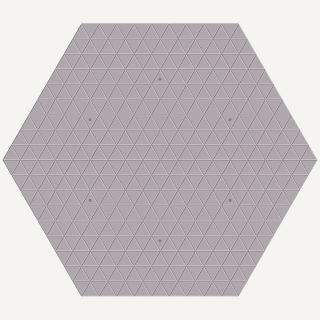
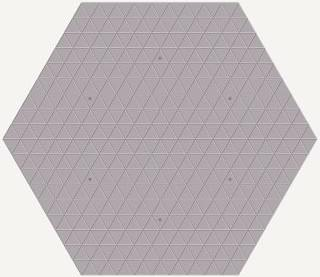
Specified image sized in HTML documents to speed up rendering on Android. Cropped empty space from Trigon images. Fixed HTMl title in some German pages.

diff --git a/src/pentobi/help/de/pentobi/callisto_rules.html b/src/pentobi/help/de/pentobi/callisto_rules.html
@@ -1,7 +1,7 @@
 <!DOCTYPE HTML PUBLIC "-//W3C//DTD HTML 4.01 Transitional//EN">
 <html lang="de">
 <head>
-<title>Pentobi Help</title>
+<title>Pentobi-Hilfe</title>
 <link rel="stylesheet" type="text/css" href="../../C/pentobi/stylesheet.css">
 <meta http-equiv="Content-Type" content="text/html; charset=utf-8">
 </head>
@@ -15,23 +15,23 @@ werden, sodass ein Achteck verbleibt mit einer oberen Kantenlänge von sechs.
 Die Spielsteine sind eine Untermenge der Polyominos bis zur Größe fünf. Sie
 beinhalten drei 1×1-Spielsteine pro Spieler, die eine besondere Rolle
 spielen.</p>
-<p align="center"><img src="../../C/pentobi/pieces_callisto.png" alt=
-"Spielsteine für Spielvariante Callisto"></p>
+<p align="center"><img src="../../C/pentobi/pieces_callisto.png" width="296"
+height="126" alt="Spielsteine für Spielvariante Callisto"></p>
 <div align="center" class="caption">Die 21 Spielsteine.</div>
 <p>Die 1×1-Spielsteine dürfen überall auf dem Spielbrett gesetzt werden außer
 im Zentrum des Spielbretts. Das Zentrums besteht aus einem Achteck mit Breite
 sechs und oberer Kantenlänge zwei. Die ersten zwei Züge eines Spielers müssen
 einen 1×1-Spielstein benutzen, der dritte 1×1-Spielstein kann jederzeit später
 gespielt werden.</p>
-<p align="center"><img src="../../C/pentobi/board_callisto.png" alt=
-"Spielbrett für Spielvariante Callisto"></p>
+<p align="center"><img src="../../C/pentobi/board_callisto.png" width="320"
+height="320" alt="Spielbrett für Spielvariante Callisto"></p>
 <div align="center" class="caption">Das Brett mit einer dunkleren Farbe im
 Zentrum.</div>
 <p>Alle größeren Spielsteine dürfen überall auf dem Brett gesetzt werden,
 müssen aber einen existierenden Spielstein der selben Farbe Kante an Kante
 berühren.</p>
-<p align="center"><img src="../../C/pentobi/position_callisto.png" alt=
-"Beispielstellung für Spielvariante Callisto"></p>
+<p align="center"><img src="../../C/pentobi/position_callisto.png" width="321"
+height="320" alt="Beispielstellung für Spielvariante Callisto"></p>
 <div align="center" class="caption">Eine Beispielstellung nach ein paar
 Zügen.</div>
 <p>Die Punktzahl einer Farbe ist die Anzahl der Quadrate auf dem Brett, die von

diff --git a/src/pentobi/help/de/pentobi/classic_rules.html b/src/pentobi/help/de/pentobi/classic_rules.html
@@ -14,8 +14,8 @@ Quadraten besteht.</p>
 <p>Jeder Spieler besitzt 21 Spielsteine seiner Farbe, die die Form von
 Polyominos bis zur Größe fünf haben (ein Polyomino ist eine Figur, die aus
 einer Anzahl von Quadraten besteht, die entlang der Kanten verbunden sind).</p>
-<p align="center"><img src="../../C/pentobi/pieces.png" alt=
-"Spielsteine für Spielvariante Klassisch"></p>
+<p align="center"><img src="../../C/pentobi/pieces.png" width="294" height=
+"122" alt="Spielsteine für Spielvariante Klassisch"></p>
 <div align="center" class="caption">Die 21 Spielsteine.</div>
 <p>Die Spieler setzen abwechselnd einen ihrer Spielsteine aufs Brett. Blau
 fängt an, gefolgt von Gelb, dann Rot, dann Grün.</p>
@@ -23,16 +23,16 @@ fängt an, gefolgt von Gelb, dann Rot, dann Grün.</p>
 linken Ecke, das von Gelb in der oberen rechten Ecke, das von Rot in der
 unteren rechten Ecke und das von Grün in der unteren linken Ecke. Der erste
 Spielstein eines Spielers muss sein Startfeld abdecken.</p>
-<p align="center"><img src="../../C/pentobi/board_classic.png" alt=
-"Spielbrett für Spielvariante Klassisch"></p>
+<p align="center"><img src="../../C/pentobi/board_classic.png" width="320"
+height="320" alt="Spielbrett für Spielvariante Klassisch"></p>
 <div align="center" class="caption">Das 20×20-Brett mit den Startfeldern<br>
 durch farbige Punkte markiert.</div>
 <p>Die folgenden Spielsteine müssen so auf leere Quadrate gesetzt werden, dass
 der neue Spielstein mindestens einen Spielstein der eigenen Farbe Ecke an Ecke
 berührt, aber keinen Spielstein der eigenen Farbe entlang der Kanten. Der neue
 Spielstein darf die Kanten von gegnerischen Spielsteinen berühren.</p>
-<p align="center"><img src="../../C/pentobi/position_classic.png" alt=
-"Beispielstellung für Spielvariante Klassisch"></p>
+<p align="center"><img src="../../C/pentobi/position_classic.png" width="320"
+height="320" alt="Beispielstellung für Spielvariante Klassisch"></p>
 <div align="center" class="caption">Eine Beispielstellung nach ein paar
 Zügen.</div>
 <p>Wenn der Spieler einer Farbe keine Spielsteine mehr setzen kann, muss der

diff --git a/src/pentobi/help/de/pentobi/nexos_rules.html b/src/pentobi/help/de/pentobi/nexos_rules.html
@@ -1,7 +1,7 @@
 <!DOCTYPE HTML PUBLIC "-//W3C//DTD HTML 4.01 Transitional//EN">
 <html lang="de">
 <head>
-<title>Pentobi Help</title>
+<title>Pentobi-Hilfe</title>
 <link rel="stylesheet" type="text/css" href="../../C/pentobi/stylesheet.css">
 <meta http-equiv="Content-Type" content="text/html; charset=utf-8">
 </head>
@@ -12,14 +12,14 @@
 <p>Nexos ist ein Brettspiel ähnlich wie Blokus. Das Spielbrett ist ein
 rechtwinkliges 13×13-Liniengitter. Jede Farbe benutzt 24 Spielsteine, die aus
 bis zu vier verbundenen Liniensegmenten bestehen.</p>
-<p align="center"><img src="../../C/pentobi/pieces_nexos.png" alt=
-"Spielsteine für Nexos"></p>
+<p align="center"><img src="../../C/pentobi/pieces_nexos.png" width="301"
+height="111" alt="Spielsteine für Nexos"></p>
 <div align="center" class="caption">Die 24 Spielsteine.</div>
 <p>Jede Farbe hat einen Startkreuzungspunkt auf der Kreuzung der dritten Linien
 nahe einer Ecke. Der erste Spielstein muss den Startkreuzungspunkt
 berühren.</p>
-<p align="center"><img src="../../C/pentobi/board_nexos.png" alt=
-"Spielbrett für Nexos"></p>
+<p align="center"><img src="../../C/pentobi/board_nexos.png" width="320"
+height="320" alt="Spielbrett für Nexos"></p>
 <div align="center" class="caption">Das Brett für Nexos mit den die
 Startkreuzungspunkte<br>
 berührenden Segmenten durch farbige Punkte markiert.</div>
@@ -31,8 +31,8 @@ Allerdings dürfen sich Spielsteine nicht überlappen. Die Verbindungen zwischen
 den Segmenten innerhalb eines Spielsteins sind so, dass zwei rechtwinklige
 Verbindungen verschiedener Spielsteine denselben Kreuzungspunkt bedecken können
 ohne sich zu überlappen, während gerade Verbindungen das nicht können.</p>
-<p align="center"><img src="../../C/pentobi/position_nexos.png" alt=
-"Beispielstellung für Nexos"></p>
+<p align="center"><img src="../../C/pentobi/position_nexos.png" width="320"
+height="320" alt="Beispielstellung für Nexos"></p>
 <div align="center" class="caption">Eine Beispielstellung nach ein paar
 Zügen.</div>
 <p>Die Punktzahl einer Farbe ist die Anzahl der Liniensegmente auf dem Brett,

diff --git a/src/pentobi/help/de/pentobi/trigon_rules.html b/src/pentobi/help/de/pentobi/trigon_rules.html
@@ -15,21 +15,21 @@ Spielsteine verwendet. Jede Farbe benutzt 22 Spielsteine, die wie die
 Polyiamonds bis zur Größe sechs geformt sind (ein Polyiamond ist eine Figur,
 die aus einer Anzahl von gleichseitigen Dreiecken besteht, die entlang der
 Kanten verbunden sind).</p>
-<p align="center"><img src="../../C/pentobi/pieces_trigon.jpg" alt=
-"Spielsteine für Spielvariante Trigon"></p>
+<p align="center"><img src="../../C/pentobi/pieces_trigon.jpg" width="320"
+height="111" alt="Spielsteine für Spielvariante Trigon"></p>
 <div align="center" class="caption">Die 22 Trigon-Spielsteine.</div>
 <p>Das Spielbrett besteht ebenfalls aus Dreiecken und hat die Form eines
 Sechsecks mit jeweils neun Dreiecken pro Kante.</p>
-<p align="center"><img src="../../C/pentobi/board_trigon.jpg" alt=
-"Spielbrett für Spielvariante Trigon"></p>
+<p align="center"><img src="../../C/pentobi/board_trigon.jpg" width="320"
+height="277" alt="Spielbrett für Spielvariante Trigon"></p>
 <div align="center" class="caption">Das Brett mit den Startfeldern<br>
 durch graue Punkte markiert.</div>
 <p>Es gibt sechs Startfelder auf dem Brett, jedes in der Mitte der vierten
 Reihe von jeder Kante aus gesehen. Die Startfelder sind nicht farbig und die
 Spieler dürfen das Startfeld für den ersten Spielstein einer Farbe frei
 wählen.</p>
-<p align="center"><img src="../../C/pentobi/position_trigon.jpg" alt=
-"Beispielstellung für Spielvariante Trigon"></p>
+<p align="center"><img src="../../C/pentobi/position_trigon.jpg" width="320"
+height="276" alt="Beispielstellung für Spielvariante Trigon"></p>
 <div align="center" class="caption">Eine Beispielstellung nach ein paar
 Zügen.</div>
 <h3>Regeln für zwei Spieler</h3>

diff --git a/src/pentobi/help/C/pentobi/callisto_rules.html b/src/pentobi/help/C/pentobi/callisto_rules.html
@@ -14,21 +14,21 @@ from the classic 20×20 Blokus board by removing the corners such that an
 octagon with a top edge of size six remains. The pieces are a subset of the
 polyominoes up to size five. They include three 1×1 pieces per player that play
 a special role.</p>
-<p align="center"><img src="pieces_callisto.png" alt=
+<p align="center"><img src="pieces_callisto.png" width="296" height="126" alt=
 "Pieces for game variant Callisto"></p>
 <div align="center" class="caption">The 21 pieces.</div>
 <p>The 1×1 pieces may be placed anywhere on the board apart from the center of
 the board. The center consists of an octagon with width six and top edge size
 two. The first two moves of a player must use a 1×1 piece, the third 1×1 piece
 may be played anytime later.</p>
-<p align="center"><img src="board_callisto.png" alt=
+<p align="center"><img src="board_callisto.png" width="320" height="320" alt=
 "Board for game variant Callisto"></p>
 <div align="center" class="caption">The board with the center having a darker
 color.</div>
 <p>All larger pieces may be placed anwhere on the board but must touch an
 existing piece of the same color edge-to-edge.</p>
-<p align="center"><img src="position_callisto.png" alt=
-"Example position for game variant Callisto"></p>
+<p align="center"><img src="position_callisto.png" width="321" height="320"
+alt="Example position for game variant Callisto"></p>
 <div align="center" class="caption">An example position after a few
 moves.</div>
 <p>The score of a color is the number of squares on the board occupied by the

diff --git a/src/pentobi/help/C/pentobi/classic_rules.html b/src/pentobi/help/C/pentobi/classic_rules.html
@@ -14,7 +14,7 @@ of 20×20 squares.</p>
 <p>Each player has a set of 21 pieces of his color shaped like the polyominoes
 up to size five. (A polyomino is a shape built by a number of squares connected
 along the edges.)</p>
-<p align="center"><img src="pieces.png" alt=
+<p align="center"><img src="pieces.png" width="294" height="122" alt=
 "Pieces for game variant Classic"></p>
 <div align="center" class="caption">The 21 pieces.</div>
 <p>The players alternate in placing one of their pieces on the board. Blue
@@ -23,7 +23,7 @@ starts, followed by Yellow, then Red, then Green.</p>
 corner, Yellow's in the top right corner, Red's in the bottom right corner and
 Green's in the bottom left corner. The first piece of a player must cover its
 starting square.</p>
-<p align="center"><img src="board_classic.png" alt=
+<p align="center"><img src="board_classic.png" width="320" height="320" alt=
 "Board for game variant Classic"></p>
 <div align="center" class="caption">The 20×20 board with the starting<br>
 squares marked with colored dots.</div>
@@ -31,7 +31,7 @@ squares marked with colored dots.</div>
 touches at least one piece of its own color corner-to-corner but does not touch
 any piece of its own color along the edges. The new piece may touch edges of
 pieces of the opponent colors.</p>
-<p align="center"><img src="position_classic.png" alt=
+<p align="center"><img src="position_classic.png" width="320" height="320" alt=
 "Example position for game variant Classic"></p>
 <div align="center" class="caption">An example position after a few
 moves.</div>

diff --git a/src/pentobi/help/C/pentobi/nexos_rules.html b/src/pentobi/help/C/pentobi/nexos_rules.html
@@ -12,12 +12,14 @@
 <p>Nexos is a board game similar to Blokus. The board is a rectangular 13×13
 line grid. Each color uses 24 pieces that consist of up to four connected line
 segments.</p>
-<p align="center"><img src="pieces_nexos.png" alt="Pieces for Nexos"></p>
+<p align="center"><img src="pieces_nexos.png" width="301" height="111" alt=
+"Pieces for Nexos"></p>
 <div align="center" class="caption">The 24 pieces.</div>
 <p>Each color has a starting intersection on the intersection of the third
 lines close to a corner. The first piece must touch the starting
 intersection.</p>
-<p align="center"><img src="board_nexos.png" alt="Board for Nexos"></p>
+<p align="center"><img src="board_nexos.png" width="320" height="320" alt=
+"Board for Nexos"></p>
 <div align="center" class="caption">The board for Nexos with segments touching
 the<br>
 starting intersections marked with colored dots.</div>
@@ -28,7 +30,7 @@ or cover the same intersection. However, pieces may not overlap. The junctions
 between the segments within a piece are such that two rectangular junctions of
 different pieces can cover the same intersection without overlapping, but
 straight junctions cannot.</p>
-<p align="center"><img src="position_nexos.png" alt=
+<p align="center"><img src="position_nexos.png" width="320" height="320" alt=
 "Example position for Nexos"></p>
 <div align="center" class="caption">An example position after a few
 moves.</div>

diff --git a/src/pentobi/help/C/pentobi/trigon_rules.html b/src/pentobi/help/C/pentobi/trigon_rules.html
@@ -14,19 +14,19 @@ but it uses a differently shaped board and a different set of pieces. Each
 color uses 22 pieces that are shaped like the polyiamonds up to size six. (A
 polyiamond is a shape built by a number of equilateral triangles connected
 along the edges.)</p>
-<p align="center"><img src="pieces_trigon.jpg" alt=
+<p align="center"><img src="pieces_trigon.jpg" width="320" height="111" alt=
 "Pieces for game variant Trigon"></p>
 <div align="center" class="caption">The 22 Trigon pieces.</div>
 <p>The board also consists of triangles and is shaped like a hexagon with an
 edge size of nine triangles.</p>
-<p align="center"><img src="board_trigon.jpg" alt=
+<p align="center"><img src="board_trigon.jpg" width="320" height="277" alt=
 "Board for game variant Trigon"></p>
 <div align="center" class="caption">The board with the starting<br>
 fields marked with gray dots.</div>
 <p>There are six starting points on the board, each located in the middle of
 the fourth row away from each edge. The starting points are not colored and the
 players may freely choose a starting point for the first piece of a color.</p>
-<p align="center"><img src="position_trigon.jpg" alt=
+<p align="center"><img src="position_trigon.jpg" width="320" height="276" alt=
 "Example position for game variant Trigon"></p>
 <div align="center" class="caption">An example position after a few
 moves.</div>

diff --git a/src/pentobi/help/de/pentobi/become_stronger.html b/src/pentobi/help/de/pentobi/become_stronger.html
@@ -16,8 +16,8 @@ Blokus-Spieler zu werden.</p>
 <i>Extras</i>-Menü wählen. Dies lässt den Computer eine Bewertung jeder
 Brettstellung der Hauptvariante ausführen. Das Ergebnis wird in einem Fenster
 mit einem Diagramm farbiger Punkte dargestellt.</p>
-<p align="center"><img src="../../C/pentobi/analysis.jpg" alt=
-"Spielanalyse-Fenster"></p>
+<p align="center"><img src="../../C/pentobi/analysis.jpg" width="320" height=
+"160" alt="Spielanalyse-Fenster"></p>
 <div align="center" class="caption">Analyse eines Spiels der Spielvariante
 Klassisch (2 Spieler).</div>
 <p>Jeder Punkt repräsentiert eine Spielstellung, in der die Farbe des Punkts am
@@ -53,8 +53,8 @@ Ende spielen.</p>
 Spielergebnis und der Spielstufe aktualisiert. Für das Spielergebnis zählt nur,
 ob Sie gewonnen oder verloren haben, oder ob das Spiel in einem Unentschieden
 endete. Die genaue Anzahl der Spielpunkte spielt keine Rolle.</p>
-<p align="center"><img src="../../C/pentobi/rating.jpg" alt=
-"Wertungsfenster"></p>
+<p align="center"><img src="../../C/pentobi/rating.jpg" width="240" height=
+"239" alt="Wertungsfenster"></p>
 <div align="center" class="caption">Fenster mit Wertungsgraph.</div>
 <p>Sie können Ihre aktuelle Wertung jederzeit mit <i>Wertung</i> aus dem
 <i>Extras</i>-Menü sehen. Dies öffnet ein Fenster, in dem die Entwicklung Ihrer

diff --git a/src/pentobi/help/C/pentobi/become_stronger.html b/src/pentobi/help/C/pentobi/become_stronger.html
@@ -16,7 +16,8 @@ player.</p>
 <i>Tools</i> menu. This will make the computer player evaluate each position in
 the main variation. The result is displayed in a window with a diagram of
 colored dots.</p>
-<p align="center"><img src="analysis.jpg" alt="Game analysis window"></p>
+<p align="center"><img src="analysis.jpg" width="320" height="160" alt=
+"Game analysis window"></p>
 <div align="center" class="caption">Analysis of a game of variant Classic (2
 players).</div>
 <p>Each dot represents a game position in which the color of the dot was to
@@ -47,7 +48,8 @@ always play rated games until the end.</p>
 <p>After the game has ended, your rating will be updated depending on the game
 result and the computer level. For the game result, it only matters if the game
 was won, lost or a tie. The exact number of score points does not matter.</p>
-<p align="center"><img src="rating.jpg" alt="Rating window"></p>
+<p align="center"><img src="rating.jpg" width="240" height="239" alt=
+"Rating window"></p>
 <div align="center" class="caption">Window with rating graph.</div>
 <p>You can always see your current rating by selecting <i>Rating</i> from the
 <i>Tools</i> menu. This will open a window that shows the development of your

diff --git a/src/pentobi/help/de/pentobi/duo_rules.html b/src/pentobi/help/de/pentobi/duo_rules.html
@@ -14,13 +14,13 @@ Spiel wird auf einem kleineren Brett mit 14×14 Quadraten gespielt. Es gibt eine
 Farbe pro Spieler (Blau und Grün) und die Startfelder befinden sich nicht in
 den Ecken, sondern auf dem Feld mit den Koordinaten (5,10) für Blau und auf
 (10,5) für Grün.</p>
-<p align="center"><img src="../../C/pentobi/board_duo.png" alt=
-"Spielbrett für Spielvariante Duo"></p>
+<p align="center"><img src="../../C/pentobi/board_duo.png" width="224" height=
+"224" alt="Spielbrett für Spielvariante Duo"></p>
 <div align="center" class="caption">Das 14×14-Brett, das in der Spielvariante
 Duo benutzt<br>
 wird, mit den Startfeldern durch farbige Punkte markiert.</div>
-<p align="center"><img src="../../C/pentobi/position_duo.png" alt=
-"Beispielstellung für Spielvariante Duo"></p>
+<p align="center"><img src="../../C/pentobi/position_duo.png" width="224"
+height="224" alt="Beispielstellung für Spielvariante Duo"></p>
 <div align="center" class="caption">Eine Beispielstellung in der Spielvariante
 Duo.</div>
 <p align="right"><a href="classic_rules.html">Zurück</a> | <a href=

diff --git a/src/pentobi/help/C/pentobi/duo_rules.html b/src/pentobi/help/C/pentobi/duo_rules.html
@@ -13,12 +13,12 @@
 played on a smaller board with 14×14 squares. There is only one color per
 player (Blue and Green) and the starting squares are not in the corners, but on
 the square with the coordinates (5,10) for Blue, and on (10,5) for Green.</p>
-<p align="center"><img src="board_duo.png" alt=
+<p align="center"><img src="board_duo.png" width="224" height="224" alt=
 "Board for game variant Duo"></p>
 <div align="center" class="caption">The 14×14 board used in game variant Duo
 with<br>
 the starting squares marked with colored dots.</div>
-<p align="center"><img src="position_duo.png" alt=
+<p align="center"><img src="position_duo.png" width="224" height="224" alt=
 "Example position for game variant Duo"></p>
 <div align="center" class="caption">An example position in game variant
 Duo.</div>
